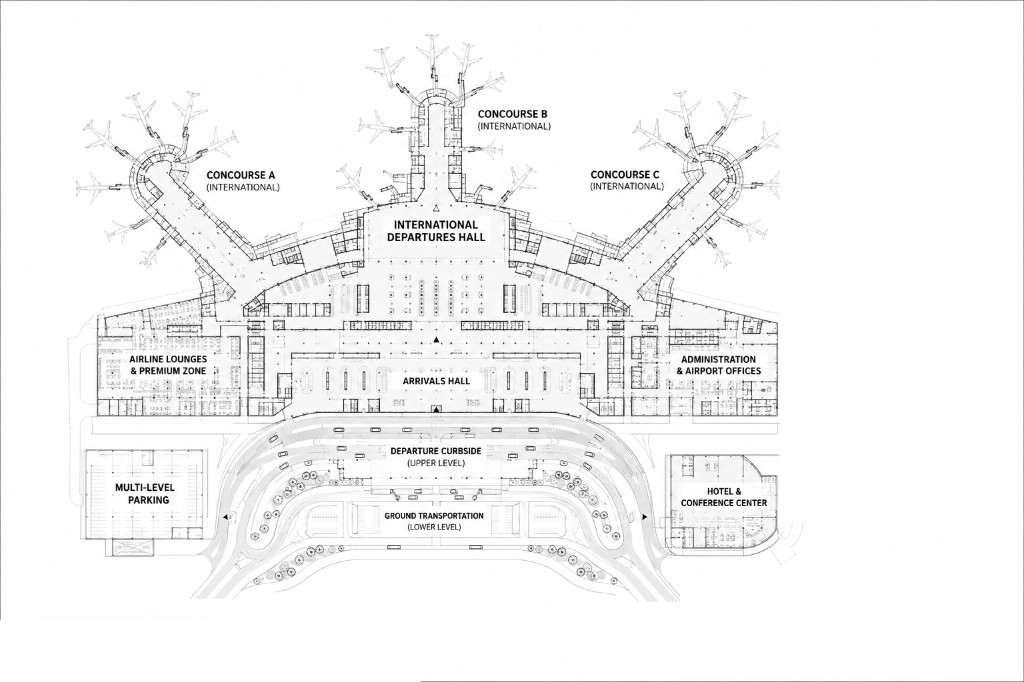
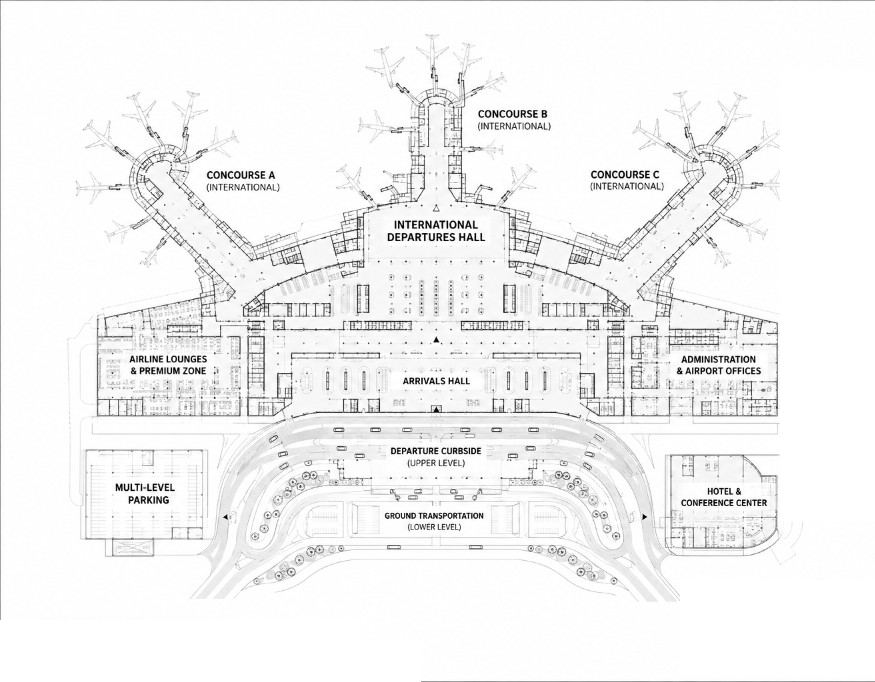
Airport floorplan: crop right margin, bump up 10%
Crop the airport floorplan image to center its content (the right side
had 246px of empty space vs 97px on the left, left over from the
wiped keys/legend). Add a per-industry imageHeightScale prop to the
floorplan component so a single industry can be scaled independently;
set airport to 1.1 (10% taller) to match the user's request.

diff --git a/src/data/industryDetails.ts b/src/data/industryDetails.ts
@@ -64,6 +64,7 @@ export interface IndustryDetail {
     imageWidth?: number;
     imageHeight?: number;
     imageWidthPct?: number;
+    imageHeightScale?: number;
     ariaLabel?: string;
     zones: {
       label: string;
@@ -885,12 +886,13 @@ export const industryDetails: Partial<Record<IndustrySlug, IndustryDetail>> = {
         'In a terminal, information is everything — and your screens, speakers, and signage are how passengers get it. That makes multimedia the layer that guides the journey, drives revenue, and carries the messages that matter most.',
     },
     floorplan: {
-      image: '/images/industries/airports-transportation/floorplan.png?v=3',
+      image: '/images/industries/airports-transportation/floorplan.png?v=4',
       imageAlt:
         'Architectural floorplan of an airport terminal: departures hall, arrivals hall, concourses A/B/C, airline lounges, administration, parking, hotel and conference center, departure curbside, and ground transportation.',
       imageWidth: 1024,
       imageHeight: 682,
       imageWidthPct: 88,
+      imageHeightScale: 1.1,
       ariaLabel: 'Airport terminal zones LUCI orchestrates',
       zones: [
         {
